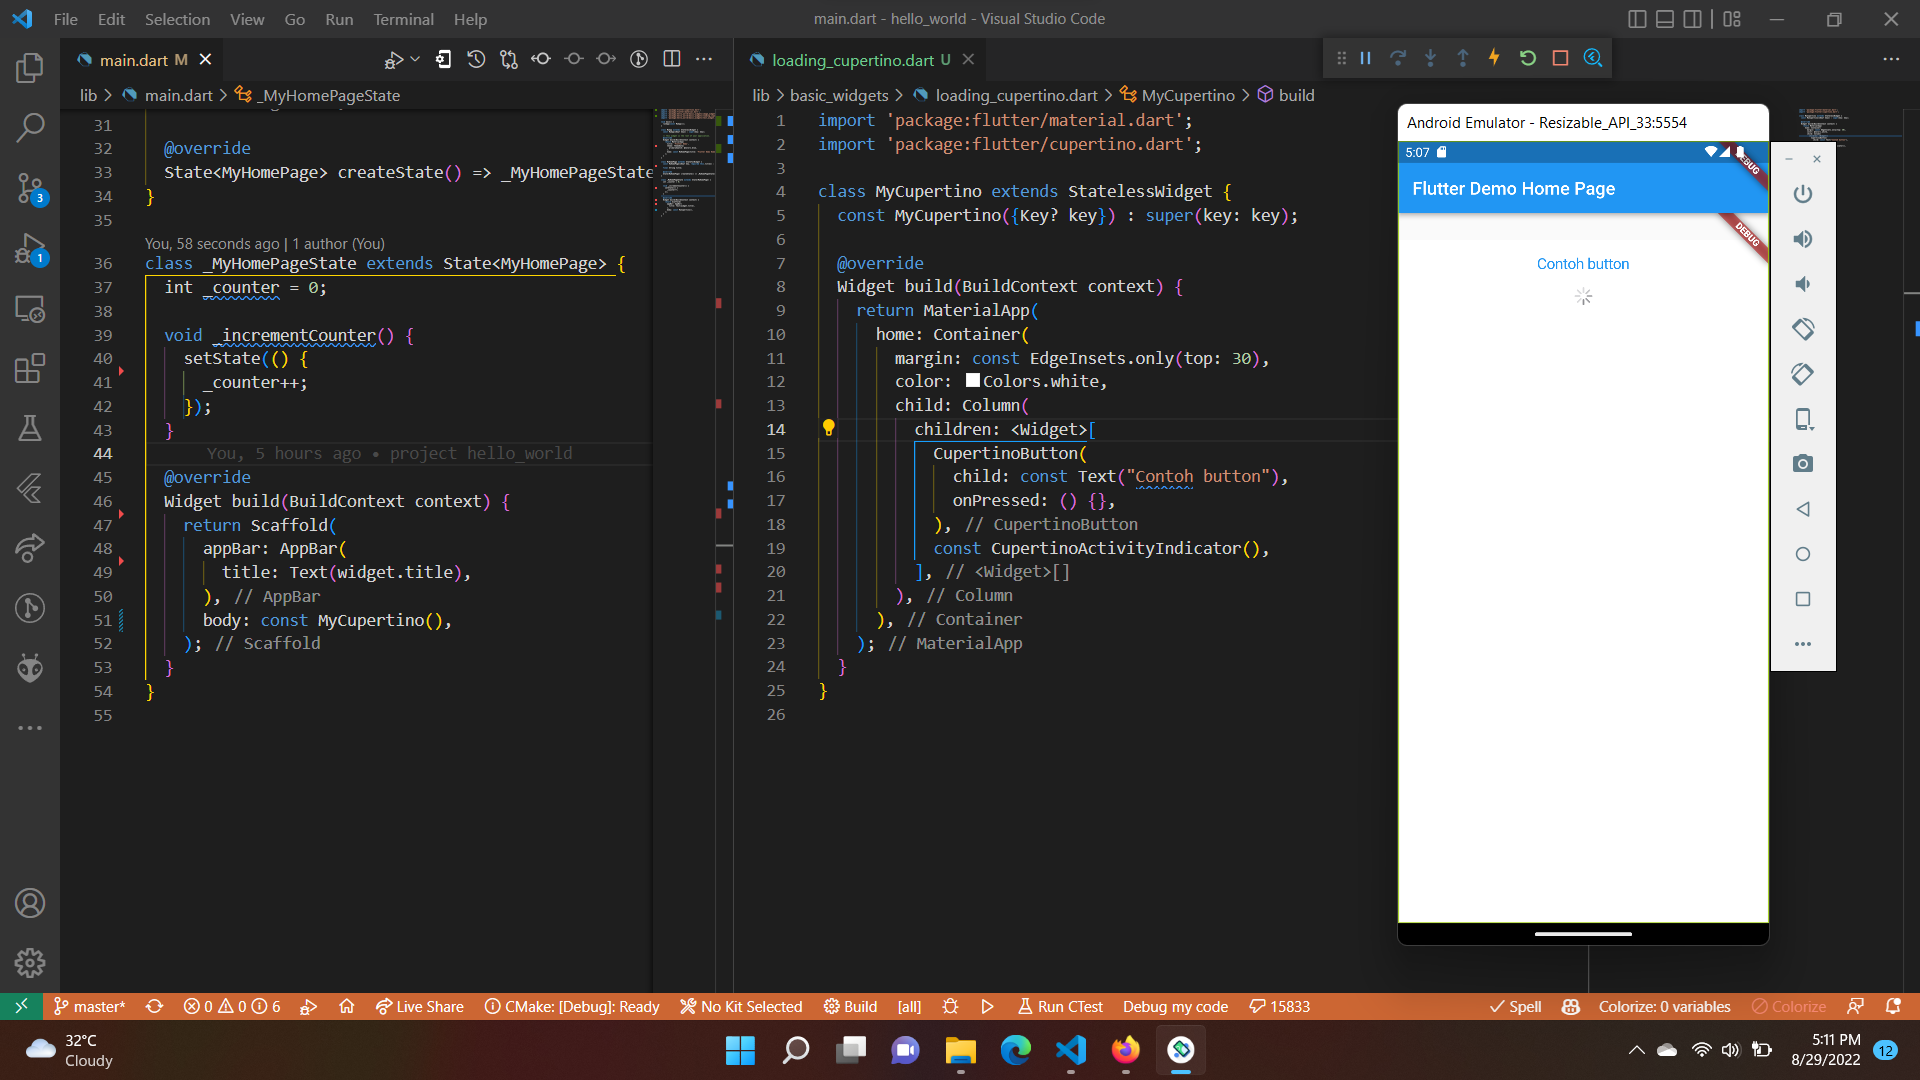
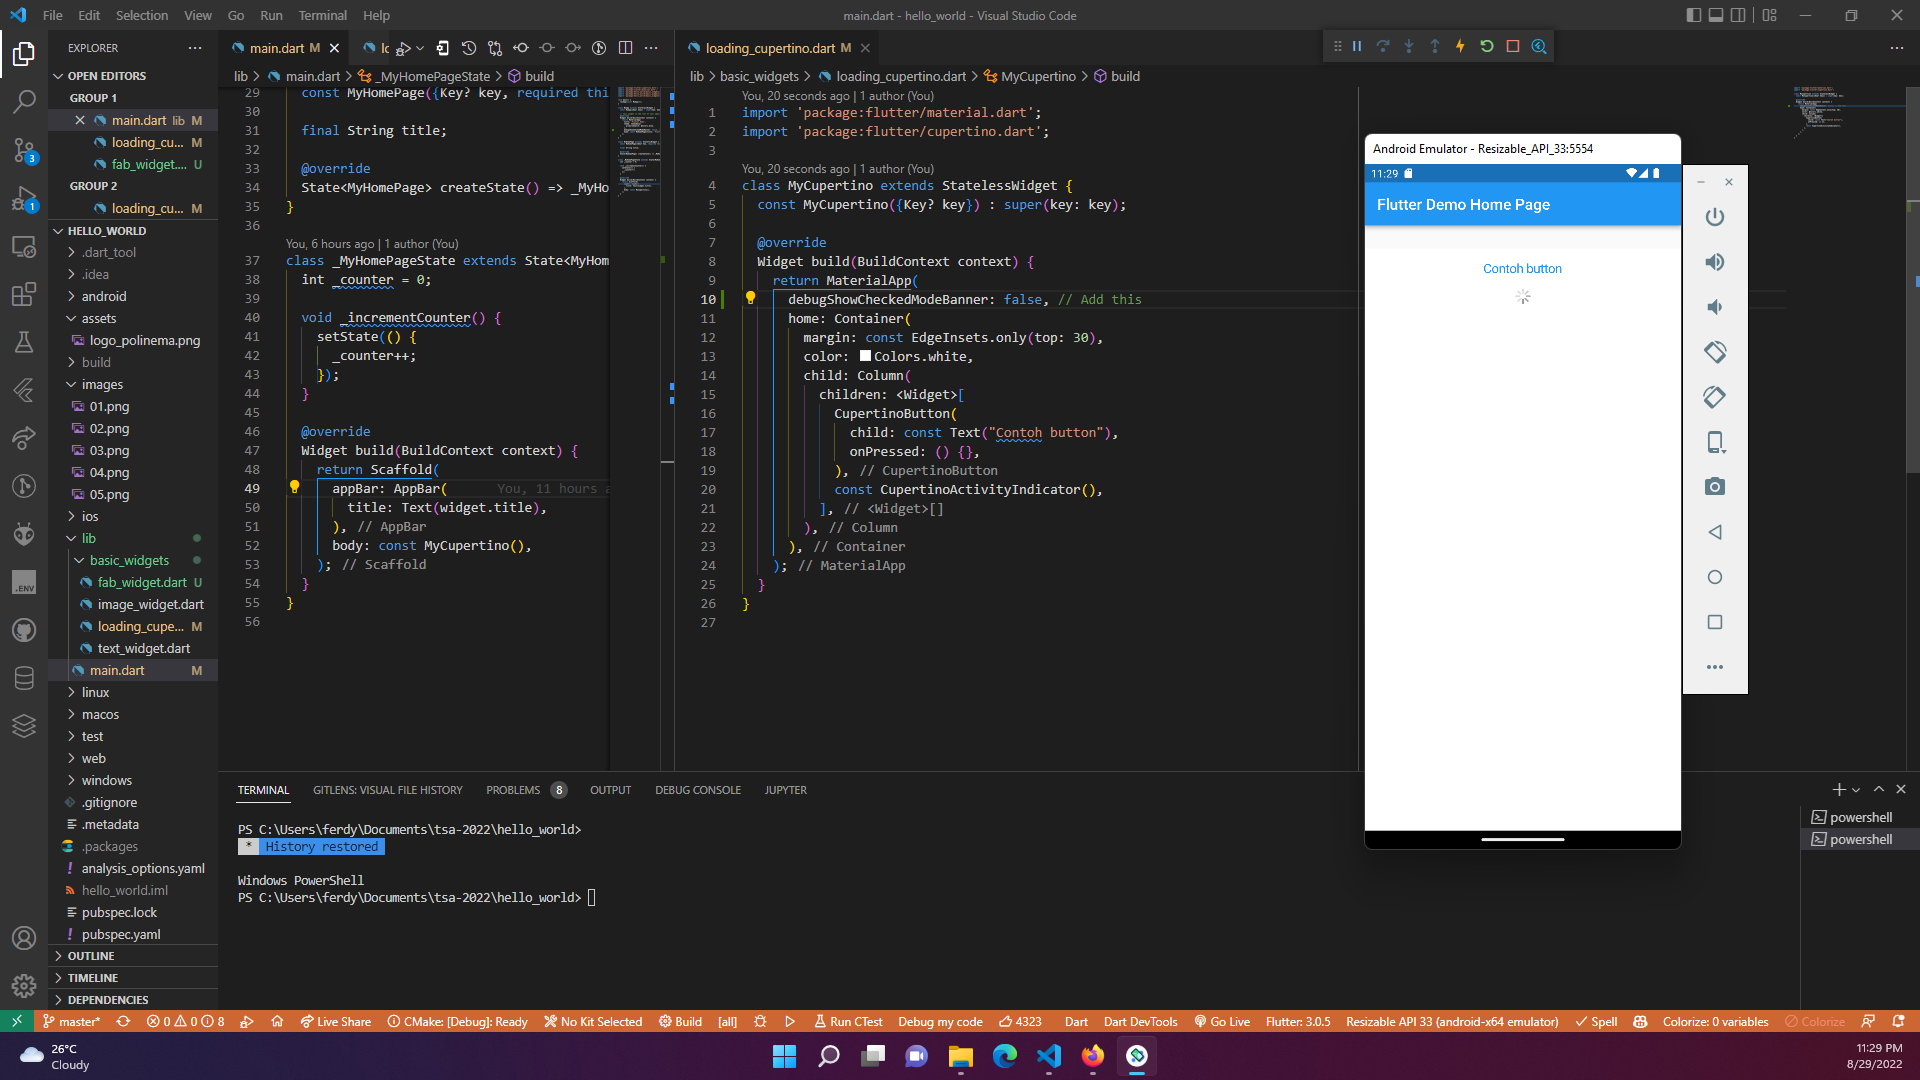
Tambah widget Cupertino Button dan Loading Bar

diff --git a/lib/basic_widgets/fab_widget.dart b/lib/basic_widgets/fab_widget.dart
@@ -1,0 +1,20 @@
+import 'package:flutter/material.dart';
+
+class MyFab extends StatelessWidget {
+  const MyFab({Key? key}) : super(key: key);
+
+  @override
+  Widget build(BuildContext context) {
+    return MaterialApp(
+      home: Scaffold(
+        floatingActionButton: FloatingActionButton(
+          onPressed: () {
+            // Add your onPressed code here!
+          },
+          child: Icon(Icons.thumb_up),
+          backgroundColor: Colors.pink,
+        ),
+      ),
+    );
+  }
+}

diff --git a/lib/basic_widgets/loading_cupertino.dart b/lib/basic_widgets/loading_cupertino.dart
@@ -7,6 +7,7 @@ class MyCupertino extends StatelessWidget {
   @override
   Widget build(BuildContext context) {
     return MaterialApp(
+      debugShowCheckedModeBanner: false, // Add this
       home: Container(
         margin: const EdgeInsets.only(top: 30),
         color: Colors.white,

diff --git a/lib/main.dart b/lib/main.dart
@@ -19,6 +19,7 @@ class MyApp extends StatelessWidget {
       theme: ThemeData(
         primarySwatch: Colors.blue,
       ),
+      debugShowCheckedModeBanner: false, // Add this
       home: const MyHomePage(title: 'Flutter Demo Home Page'),
     );
   }
